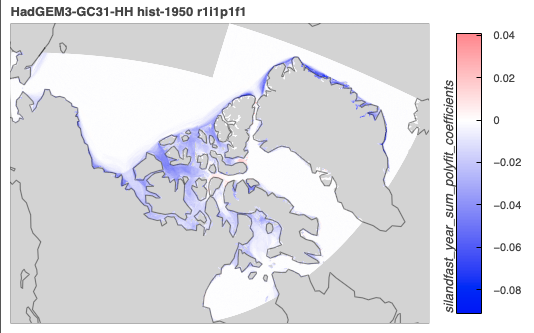
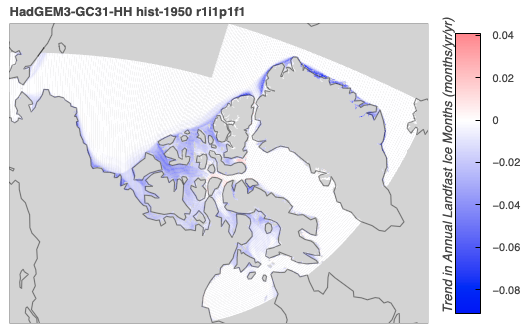
docs(landfast_trends): add notes on how to plot HadGEM3-GC31-HH `silandfast` trends with `mask_where_zero_across_time=True`

diff --git a/docs/docs_analysis/landfast_trends.md b/docs/docs_analysis/landfast_trends.md
@@ -297,7 +297,7 @@ for this_variant in [
 
 There is only one variant for HadGEM3-GC31-HM.
 I turned `mask_where_zero_across_time` to `False` because when it is set to `True`, the kernel crashes due to running out of memory.
-This takes about 2 minutes to plot.
+This takes 3-4 minutes to plot.
 ```python
 from arctichoke.plot import make_trend_map
 
@@ -307,7 +307,76 @@ make_trend_map(
     this_variant_label = 'r1i1p1f1',
     this_modification = 'trim_CAA_',
     mask_where_zero_across_time = False,
-    verbose = True,
 )
 ```
 ![HadGEM3-GC31-HH_r1i1p1f1_hist_silandfast_CAA_year_sum_trend_map_no_zero_mask.png](landfast_trends-img/HadGEM3-GC31-HH_r1i1p1f1_hist_silandfast_CAA_year_sum_trend_map_no_zero_mask.png)
+
+In order to make the above trend plot with `mask_where_zero_across_time = True`, I need to do it in steps, saving a temporary netCDF file, restarting the kernel, then continuing.
+```python
+from arctichoke.path import list_variable_files
+
+filelist = list_variable_files(
+    source_id = 'HadGEM3-GC31-HH',
+    variable_id = 'silandfast',
+    variant_label = 'r1i1p1f1',
+    with_modification = 'trim_CAA',
+    verbose = True,
+)
+
+import xarray as xr 
+
+HadGEM_GC31_HH_hist_CAA_silandfast_xr = xr.open_mfdataset(filelist)
+
+from arctichoke.analysis import sum_by_year
+
+sum_by_year(
+    HadGEM_GC31_HH_hist_CAA_silandfast_xr,
+    drop_bnds = True,
+    verbose = True,
+    save_as = 'cdo_tmp/HadGEM3-GC31-HH_CAA_silandfast_sum_by_year.nc',
+)
+```
+```console
+(list_variable_files) Found 65 files.
+(sum_by_year) `save_as`: cdo_tmp/HadGEM3-GC31-HH_CAA_silandfast_sum_by_year.nc
+(sum_by_year) `data_var_list`: ['time_bnds', 'longitude_bnds', 'latitude_bnds', 'silandfast']
+(sum_by_year) Removing `meta_var`: time_bnds
+(sum_by_year) Removing `meta_var`: latitude_bnds
+(sum_by_year) Removing `meta_var`: longitude_bnds
+(sum_by_year) Completed summing by year.
+(sum_by_year) Modifying the dataset attributes.
+(sum_by_year) Saving the dataset file: cdo_tmp/HadGEM3-GC31-HH_CAA_silandfast_sum_by_year.nc
+(sum_by_year) Done saving dataset file.
+```
+
+This saves a netCDF file to the `cdo_tmp/` directory, which is regularly cleared out when using the `cdo` package.
+Next, I restart my kernel to free up memory, then run the code below.
+```python
+import xarray as xr
+
+HadGEM3_GC31_HH_hist_CAA_silandfast_sum_by_year = xr.open_dataset('cdo_tmp/HadGEM3-GC31-HH_CAA_silandfast_sum_by_year.nc')
+HadGEM3_GC31_HH_hist_CAA_silandfast_sum_by_year
+
+from arctichoke.analysis import trend_in_time
+
+HadGEM3_GC31_HH_hist_CAA_silandfast_sum_by_year_trend = trend_in_time(
+    HadGEM3_GC31_HH_hist_CAA_silandfast_sum_by_year,
+    'silandfast_year_sum',
+    mask_where_zero_across_time = True,
+    use_xarray_polyfit = True,
+    verbose = True,
+    save_as = 'cdo_tmp/HadGEM3-GC31-HH_CAA_silandfast_trends.nc',
+)
+
+from arctichoke.plot.hvplots import quadmesh_map
+
+HadGEM3_GC31_HH_hist_silandfast_trend_map = quadmesh_map(
+    HadGEM3_GC31_HH_hist_CAA_silandfast_sum_by_year_trend,
+    'silandfast_year_sum_trends',
+    map_projection = 'Orthographic',
+    diverging_cbar = True,
+    verbose = True,
+)
+HadGEM3_GC31_HH_hist_silandfast_trend_map
+```
+![HadGEM3-GC31-HH_r1i1p1f1_hist_silandfast_CAA_year_sum_trend_map.png](landfast_trends-img/HadGEM3-GC31-HH_r1i1p1f1_hist_silandfast_CAA_year_sum_trend_map.png)